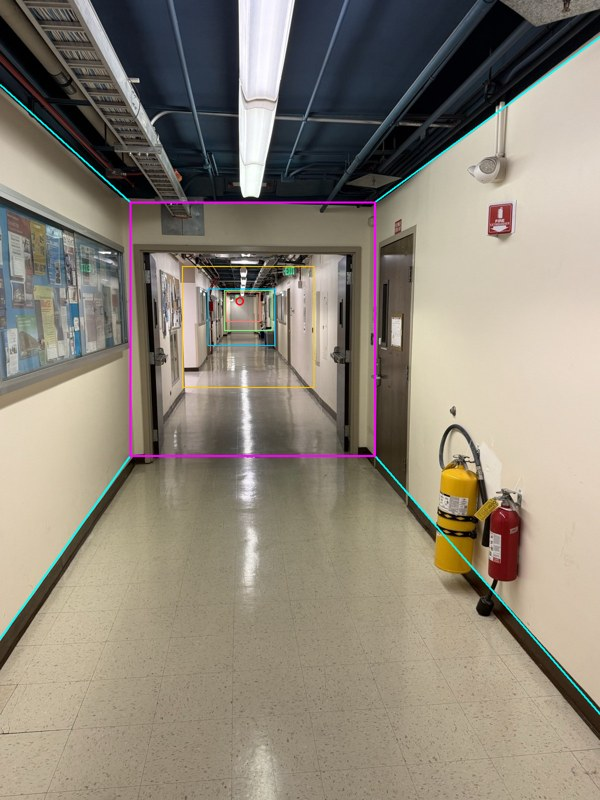
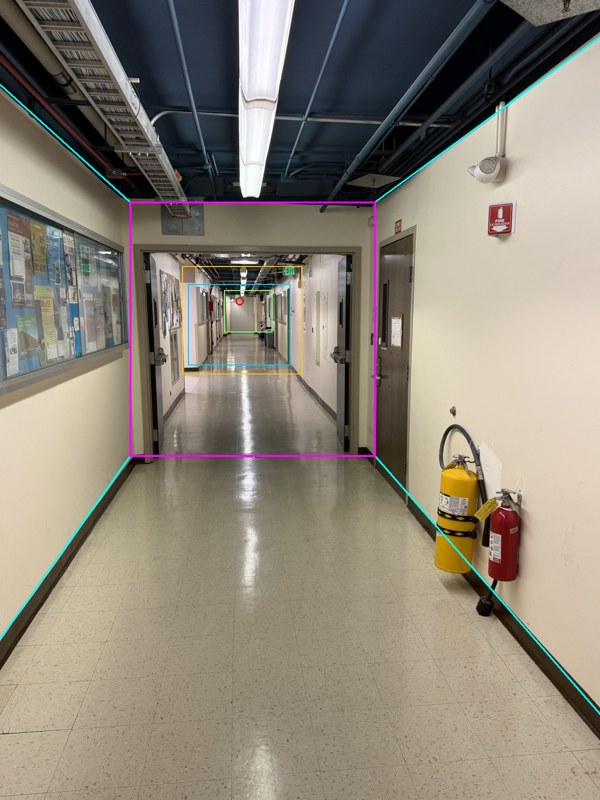
Deeper boxes by dynamic programming (no fixed depth step)
DP over candidate box-end rows: a box gains junction evidence summed along
the exact stretch its floor/ceiling/wall edges span (so splitting a uniform
corridor gains nothing) plus its end-rectangle edges, minus a per-box cost.
Boxes must end at a visible floor boundary with visible sides, be >=5%
deeper and visibly inset (no paper-thin duplicates), and keep a similar 3D
shape. Ray running sums make each candidate one lookup (~2 s total).

Replaces the greedy 1.5x-step search. New test with uneven spacing (1.1x
then 2.5x): DP within ~5px; the old version put the first box 45px off and
added two fake boxes. Hallway: 3 deeper boxes at the left-wall step and the
end wall. 15 annotation + 4 geometry tests pass.

Changed region(s): [[0.3, 0.3125, 0.54, 0.5]]

diff --git a/tip/auto_annotate.py b/tip/auto_annotate.py
@@ -14,13 +14,11 @@ Works for one-point-perspective interiors (camera looking down the room).
    how consistently the image changes across each of the four rays (from
    its corner outward), plus edge strength along the rectangle's own sides.
    Running sums make the exhaustive 4D search cheap.
-3. Deeper boxes (find_deeper_boxes). Walk down the room in depth steps of
-   about 1.5x. Each next box must contain the VP, sit inside the previous one
-   and keep a similar 3D size. Its rectangle is scored like the back wall,
-   except the junction edges are checked only over the exact stretch where
-   that box's floor/ceiling/wall edges would run, from its far corner out to
-   where it meets the previous box. It stops when the evidence gets weak or
-   the boxes get too small.
+3. Deeper boxes (find_deeper_boxes). Dynamic programming over where each
+   box ends, with no fixed spacing. A box gains the edge evidence along its
+   four floor/ceiling/wall junctions (over the exact stretch where they'd
+   run) plus the edges of its end rectangle, minus a fixed cost per box. So
+   the boxes split only where a real boundary is visible.
 
 The result is a starting point. scripts/annotate.py opens it for adjustment.
 """
@@ -296,125 +294,155 @@ def _box_shape(rect, vp):
     return (x2 - x1) / d, (y2 - y1) / d
 
 
-def segment_support(gx, gy, vp, cx, cy, ratio, n: int = 24, slack: int = 2, full_len: float = 25.0,
-                    pct: float = 65.0):
-    """Edge support along a room-edge segment that starts at corner (cx, cy)
-    and runs away from the VP until it is `ratio` times as far from the VP.
+def _ray_prefix(gx, gy, vp, xs, ys, slack: int = 2):
+    """Running sums of edge evidence along the outward ray from every corner
+    (x, y) on the grid xs x ys, in 1 px steps out to the image border.
 
-    A box ending at depth Z_k starts at the previous box's depth Z_{k-1}, so
-    its floor/wall and ceiling/wall junctions run from its far corner outward
-    by exactly ratio = Z_k / Z_{k-1}. Score = the `pct`-th percentile of edge
-    strength across the segment, scaled down for segments shorter than
-    `full_len` px (too short to be reliable). With pct = 65, the edge must
-    run along about 35% of the segment. Deeper boxes' junctions are often
-    partly hidden behind the previous box's back wall, so requiring the
-    whole length (the median or more) would be too strict. Arrays broadcast
-    together."""
+    Evidence at a sample is the edge strength across the ray (best within
+    +-slack px), divided by a high percentile and capped at 1, so a solid
+    room edge contributes about 1 per pixel of length. Returns
+    (prefix[ix, iy, k] = evidence over the first k px, d0 = corner distance
+    from the VP, room = px available before the border)."""
     h, w = gx.shape
-    cx, cy, ratio = np.broadcast_arrays(np.asarray(cx, np.float32), np.asarray(cy, np.float32),
-                                        np.asarray(ratio, np.float32))
-    shape = cx.shape
-    cx, cy, ratio = cx.ravel(), cy.ravel(), ratio.ravel()
-    ddx, ddy = cx - vp[0], cy - vp[1]
-    d0 = np.hypot(ddx, ddy) + 1e-6
-    ux, uy = ddx / d0, ddy / d0
-    d1 = np.minimum(d0 * ratio, _ray_length(vp, ux, uy, w, h))
-    seg = np.maximum(d1 - d0, 0)
-    t = d0[:, None] + np.linspace(0, 1, n)[None, :] * seg[:, None]
-    x, y = vp[0] + t * ux[:, None], vp[1] + t * uy[:, None]
-    nx, ny = -uy[:, None], ux[:, None]
+    cap = np.percentile(np.hypot(gx, gy), 97) + 1e-6
+    X, Y = np.meshgrid(np.asarray(xs, np.float32), np.asarray(ys, np.float32), indexing="ij")
+    dx, dy = X - vp[0], Y - vp[1]
+    d0 = np.hypot(dx, dy) + 1e-6
+    ux, uy = dx / d0, dy / d0
+    room = np.maximum(_ray_length(vp, ux, uy, w, h) - d0, 0)
+    t = np.arange(int(np.ceil(room.max())) + 1, dtype=np.float32)
+    x, y = X[..., None] + t * ux[..., None], Y[..., None] + t * uy[..., None]
+    nx, ny = -uy[..., None], ux[..., None]
     g = np.zeros_like(x)
     for o in range(-slack, slack + 1):
         xo, yo = x + o * nx, y + o * ny
         g = np.maximum(g, np.abs(_sample(gx, xo, yo) * nx + _sample(gy, xo, yo) * ny))
-    return (np.percentile(g, pct, axis=1) * np.sqrt(np.clip(seg / full_len, 0, 1))).reshape(shape)
+    g = np.minimum(g / cap, 1.0) * (t <= room[..., None])
+    prefix = np.concatenate([np.zeros(g.shape[:2] + (1,), np.float32), np.cumsum(g, axis=-1)], axis=-1)
+    return prefix, d0, room
 
 
-def find_inner_box(gx, gy, vp, prev, step: int = 2, min_px: int = 6, min_gap: int = 2,
-                   shape_range=(0.7, 1.1), y2_window=None):
-    """Best rectangle for the next box behind `prev` (all coords in the
-    detector's image). It must contain the VP, lie inside `prev`, have its
-    bottom edge closer to the VP than prev's (farther away), and keep a 3D
-    width, height and aspect ratio within `shape_range` of prev's (default:
-    at most 30% smaller, at most 10% bigger, since rooms seen through a
-    doorway are rarely bigger than the room in front). That rules out door
-    panels, posters and other rectangles that would mean a corridor suddenly
-    shrinking or ballooning. y2_window = (lo, hi) restricts the bottom edge.
+def find_deeper_boxes(gx, gy, vp, back_wall, step: int = 2, min_px: int = 6, ratio_range=(1.05, 12.0),
+                      shape_range=(0.7, 1.1), box_cost: float = 0.6, edge_norm: float = 50.0,
+                      bottom_min: float = 0.3, side_min: float = 0.2, min_inset: int = 3):
+    """Chain of further boxes behind the back wall, nearest first, by dynamic
+    programming over where the boxes end. No fixed spacing between boxes.
 
-    score = support of the four junction segments the box would have (see
-            segment_support) + edges along the rectangle (as for the back wall)."""
+    A box ending at depth Z_k starts at the previous box's depth Z_{k-1}, so
+    each of its four floor/ceiling/wall junctions runs from its far corner
+    outward to Z_k / Z_{k-1} times as far from the VP. A box's gain is
+
+        junction evidence summed along those four segments / edge_norm
+      + edge evidence along its end rectangle (as for the back wall)
+      - box_cost.
+
+    Junction evidence is a sum over length, so splitting a uniform corridor
+    gains nothing. A split pays off only where a real boundary (door frame,
+    step, end wall) adds edge evidence above box_cost.
+
+    DP over candidate bottom rows y (near to far): best[y] = the best total
+    gain of a chain whose last box ends at row y. It comes from any nearer
+    box end whose depth ratio is within ratio_range, and that box's
+    cross-section is fitted given the previous box's. Each box must contain
+    the VP, lie inside the previous box, and keep a 3D width, height and
+    aspect within shape_range of it (at most 30% smaller or 10% bigger:
+    rooms seen through a doorway are rarely bigger than the room in front).
+    That rules out door panels and posters. A box must also end at a visible
+    floor boundary (mean edge strength >= bottom_min along its bottom edge)
+    and visible sides (>= side_min),
+    be at least 5% deeper than the previous box, and be inset at least
+    min_inset px from it on every side. That drops paper-thin boxes, which
+    can't be told apart from the edge of an opening.
+    The answer is the best chain overall, which may be empty.
+    """
     vx, vy = vp
-    px1, py1, px2, py2 = prev
-    X1 = np.arange(np.ceil(px1) + 1, int(vx) - min_px + 1, step).astype(int)
-    X2 = np.arange(int(vx) + min_px, np.floor(px2), step).astype(int)
-    Y1 = np.arange(np.ceil(py1) + 1, int(vy) - min_px + 1, step).astype(int)
-    Y2 = np.arange(int(vy) + min_px, np.floor(py2) - min_gap + 1, step).astype(int)
-    if y2_window is not None:
-        Y2 = Y2[(Y2 >= y2_window[0]) & (Y2 <= y2_window[1])]
-    if min(len(X1), len(X2), len(Y1), len(Y2)) == 0:
-        return None, -np.inf
-    ratio = (py2 - vy) / (Y2 - vy)  # Z_k / Z_{k-1}, depends on y2 only
+    bx1, by1, bx2, by2 = back_wall
+    xs = np.arange(int(np.ceil(bx1)) + 1, int(bx2), step)
+    ys = np.arange(int(np.ceil(by1)) + 1, int(by2), step)
+    if len(xs) < 2 or len(ys) < 2:
+        return [], []
+    prefix, d0, room = _ray_prefix(gx, gy, vp, xs, ys)
+    ix_of = {int(v): i for i, v in enumerate(xs)}
+    iy_of = {int(v): i for i, v in enumerate(ys)}
+    agy = _band_max(np.abs(gy), axis=0)
+    agx = _band_max(np.abs(gx), axis=1)
+    cap = np.percentile(np.hypot(gx, gy), 97) + 1e-6
+    Ch = np.concatenate([np.zeros((gy.shape[0], 1)), np.cumsum(agy, axis=1)], axis=1) / cap
+    Cv = np.concatenate([np.zeros((1, gx.shape[1])), np.cumsum(agx, axis=0)], axis=0) / cap
 
-    # Junction segments. Bottom corners: (x, y2). Top corners: (x, y1, y2), since
-    # their length depends on the box's depth, which comes from y2.
-    R_bl = segment_support(gx, gy, vp, X1[:, None], Y2[None, :], ratio[None, :])  # (x1, y2)
-    R_br = segment_support(gx, gy, vp, X2[:, None], Y2[None, :], ratio[None, :])  # (x2, y2)
-    R_tl = segment_support(gx, gy, vp, X1[:, None, None], Y1[None, :, None], ratio[None, None, :])  # (x1, y1, y2)
-    R_tr = segment_support(gx, gy, vp, X2[:, None, None], Y1[None, :, None], ratio[None, None, :])  # (x2, y1, y2)
-    E_b, E_t, V_l, V_r = _edge_terms(gx, gy, X1, X2, Y1, Y2)
+    def seg(ix, iy, ratio):
+        """Junction evidence from corner (xs[ix], ys[iy]) out to `ratio` x its VP distance."""
+        k = np.clip(np.round((ratio - 1) * d0[ix, iy]), 0, room[ix, iy]).astype(int)
+        return prefix[ix, iy, k]
 
-    S = (
-        R_bl[:, None, None, :] + R_br[None, :, None, :] + R_tl[:, None, :, :] + R_tr[None, :, :, :]
-        + E_b[:, :, None, :] + E_t[:, :, :, None]
-        + 0.5 * (V_l[:, None, :, :] + V_r[None, :, :, :])
-    )
-    pw, ph = _box_shape(prev, vp)
-    lo, hi = shape_range
-    x1, x2 = X1[:, None, None, None], X2[None, :, None, None]
-    y1, y2 = Y1[None, None, :, None], Y2[None, None, None, :]
-    d = y2 - vy
-    w3, h3 = (x2 - x1) / d, (y2 - y1) / d
-    ok = (w3 > lo * pw) & (w3 < hi * pw) & (h3 > lo * ph) & (h3 < hi * ph)
-    # Similar proportions too: corridors don't go from wide to tall.
-    asp, pasp = h3 / w3, ph / pw
-    ok &= (asp > 0.75 * pasp) & (asp < 1.33 * pasp)
-    S = np.where(ok, S, -np.inf)
-    k = int(np.argmax(S))
-    if not np.isfinite(S.ravel()[k]):
-        return None, -np.inf
-    i1, i2, j1, j2 = np.unravel_index(k, S.shape)
-    return [float(X1[i1]), float(Y1[j1]), float(X2[i2]), float(Y2[j2])], float(S.ravel()[k])
+    def best_box(prev, y2):
+        """Best (gain, rect) for a box ending at row y2 behind box `prev`."""
+        ratio = (prev[3] - vy) / (y2 - vy)
+        if not ratio_range[0] <= ratio <= ratio_range[1] or prev[3] - y2 < min_inset:
+            return -np.inf, None
+        # Seen through the previous box's opening, the next box must be
+        # visibly smaller on every side (by more than an edge's blur width),
+        # so near-duplicate boxes can't re-claim the same edges.
+        X1 = np.array([x for x in xs if prev[0] + min_inset <= x <= vx - min_px])
+        X2 = np.array([x for x in xs if vx + min_px <= x <= prev[2] - min_inset])
+        Y1 = np.array([y for y in ys if prev[1] + min_inset <= y <= vy - min_px])
+        if min(len(X1), len(X2), len(Y1)) == 0:
+            return -np.inf, None
+        i1 = np.array([ix_of[int(x)] for x in X1])
+        i2 = np.array([ix_of[int(x)] for x in X2])
+        j1 = np.array([iy_of[int(y)] for y in Y1])
+        j2 = iy_of[int(y2)]
+        x1, x2, y1 = X1[:, None, None], X2[None, :, None], Y1[None, None, :]
+        junction = (seg(i1, j2, ratio)[:, None, None] + seg(i2, j2, ratio)[None, :, None]
+                    + seg(i1[:, None], j1[None, :], ratio)[:, None, :]
+                    + seg(i2[:, None], j1[None, :], ratio)[None, :, :])
+        bottom = (Ch[y2, x2] - Ch[y2, x1]) / (x2 - x1)
+        sides = 0.5 * ((Cv[y2, x1] - Cv[y1, x1]) + (Cv[y2, x2] - Cv[y1, x2])) / (y2 - y1)
+        edges = bottom + (Ch[y1, x2] - Ch[y1, x1]) / (x2 - x1) + sides
+        gain = junction / edge_norm + edges - box_cost
+        # A box end must show up as a rectangle: a visible floor boundary
+        # (threshold, step, baseboard or end wall) and visible side edges
+        # (frame or wall corners). The bottom is the only edge tied to depth,
+        # since it's a floor row. Without it, a box's sides and top could
+        # borrow deeper frames' edges at any depth. Without sides, a tile
+        # grout line on the floor looks like a box end.
+        gain = np.where((bottom >= bottom_min) & (sides >= side_min), gain, -np.inf)
+        # Shape relative to the previous box (3D size ~ pixels / depth-row offset).
+        pw, ph = _box_shape(prev, vp)
+        d = y2 - vy
+        w3, h3 = (x2 - x1) / d, (y2 - y1) / d
+        lo, hi = shape_range
+        ok = (w3 > lo * pw) & (w3 < hi * pw) & (h3 > lo * ph) & (h3 < hi * ph)
+        ok &= (h3 / w3 > 0.75 * ph / pw) & (h3 / w3 < 1.33 * ph / pw)
+        gain = np.where(ok, gain, -np.inf)
+        k = int(np.argmax(gain))
+        if not np.isfinite(gain.ravel()[k]):
+            return -np.inf, None
+        a, b, c = np.unravel_index(k, gain.shape)
+        return float(gain.ravel()[k]), [float(X1[a]), float(Y1[c]), float(X2[b]), float(y2)]
 
+    # States: (total gain, rect, index of previous state). State 0 is the back wall.
+    states = [(0.0, list(back_wall), -1)]
+    for y2 in sorted((int(y) for y in ys if vy + min_px <= y < by2), reverse=True):
+        best = (-np.inf, None, -1)
+        for i, (total, rect, _) in enumerate(states):
+            if rect[3] <= y2:
+                continue
+            g, r = best_box(rect, y2)
+            if r is not None and total + g > best[0]:
+                best = (total + g, r, i)
+        if best[1] is not None:
+            states.append(best)
 
-def find_deeper_boxes(gx, gy, vp, back_wall, max_boxes: int = 8, depth_step: float = 1.5,
-                      stop_frac: float = 0.3, min_px: int = 6):
-    """Chain of further boxes behind the back wall, nearest first.
-
-    Walks down the room in geometric depth steps: each box ends about
-    `depth_step` times deeper than the previous one. In image terms, its
-    bottom edge is about 1/depth_step as far below the VP. Within +-25% of that
-    depth the boundary snaps to the best-supported rectangle, whose
-    cross-section is fitted to the local floor/ceiling/wall junctions (see
-    find_inner_box). It stops when boxes get too small to fit around the VP,
-    when the evidence gets weak (score < stop_frac x the back wall's), or
-    after max_boxes boxes."""
-    vx, vy = vp
-    ref = _rect_score(gx, gy, vp, back_wall, bound=None)
-    boxes, scores = [], []
-    prev = back_wall
-    for _ in range(max_boxes):
-        d_prev = prev[3] - vy
-        target = d_prev / depth_step
-        if target < min_px or min(prev[2] - prev[0], prev[3] - prev[1]) < 3 * min_px:
-            break
-        window = (vy + 0.75 * target, vy + 1.25 * target)
-        rect, score = find_inner_box(gx, gy, vp, prev, min_px=min_px, y2_window=window)
-        if rect is None or score < stop_frac * ref:
-            break
-        boxes.append(rect)
-        scores.append(score)
-        prev = rect
-    return boxes, scores
+    # Best chain overall (state 0 = no deeper boxes), traced back.
+    i = int(np.argmax([s[0] for s in states]))
+    chain = []
+    while i > 0:
+        chain.append(states[i])
+        i = states[i][2]
+    chain.reverse()
+    gains = [c[0] - (states[c[2]][0]) for c in chain]
+    return [c[1] for c in chain], gains
 
 
 def _rect_score(gx, gy, vp, rect, bound=None):
@@ -482,8 +510,7 @@ class AutoResult:
     segment_scores: list = None
 
 
-def auto_annotate_array(image: np.ndarray, max_side: int = 640, seed: int = 0, deeper: bool = True,
-                        max_boxes: int = 8) -> AutoResult:
+def auto_annotate_array(image: np.ndarray, max_side: int = 640, seed: int = 0, deeper: bool = True) -> AutoResult:
     """Run the detector on an RGB/gray float image; returns full-res coords."""
     small, s = downscale(image, max_side)
     gray = to_gray(small)
@@ -504,7 +531,7 @@ def auto_annotate_array(image: np.ndarray, max_side: int = 640, seed: int = 0, d
     vp, bw, _ = best
     vp = refine_vp_from_corners(gx, gy, vp, bw)
     rays = rays_from_rect(vp, bw)
-    segs, seg_scores = (find_deeper_boxes(gx, gy, vp, bw, max_boxes=max_boxes) if deeper else ([], []))
+    segs, seg_scores = (find_deeper_boxes(gx, gy, vp, bw) if deeper else ([], []))
     inv = 1.0 / s
     # Map back to full-res pixel coordinates (pixel centers).
     to_full = lambda v: (v + 0.5) * inv - 0.5  # noqa: E731

diff --git a/tests/test_annotation_tools.py b/tests/test_annotation_tools.py
@@ -102,20 +102,30 @@ CORRIDOR = dict(
 )
 
 
-def test_deeper_boxes_on_synthetic_corridor():
+# Unevenly spaced: a thin door-frame-like box (1.1x deeper) and then a long
+# one (2.5x deeper). A fixed depth step can't find both.
+UNEVEN = dict(
+    vp=(300.0, 420.0),
+    back_wall=(190.0, 290.0, 410.0, 560.0),
+    segments=[(225.1, 331.5, 374.9, 547.0), (277.5, 393.3, 322.5, 471.0)],
+)
+
+
+def _deeper_boxes_match(case):
     """The deeper-box stage on its own: given the true VP and back wall, it
-    should find the two nested boxes. (Back-wall detection has its own tests.
+    should find the nested boxes. (Back-wall detection has its own tests.
     Here the doorway reaches the floor, so the outer wall's bottom edge is
     nearly invisible and full detection reasonably takes the inner frame as
     the back wall.)"""
-    img = synthetic_room(CORRIDOR["vp"], CORRIDOR["back_wall"], segments=CORRIDOR["segments"])
+    img = synthetic_room(case["vp"], case["back_wall"], segments=case["segments"])
     small, s = downscale(img, 640)  # same working resolution as the pipeline
     gx, gy = gradients(to_gray(small), sigma=1.0)
     to_small = lambda v: (np.asarray(v, float) + 0.5) * s - 0.5  # noqa: E731
     to_full = lambda v: (np.asarray(v, float) + 0.5) / s - 0.5  # noqa: E731
-    boxes, _ = find_deeper_boxes(gx, gy, tuple(to_small(CORRIDOR["vp"])), list(to_small(CORRIDOR["back_wall"])))
-    assert len(boxes) >= 2, f"found {len(boxes)} deeper boxes: {boxes}"
-    for found, truth in zip(boxes, CORRIDOR["segments"]):
+    boxes, _ = find_deeper_boxes(gx, gy, tuple(to_small(case["vp"])), list(to_small(case["back_wall"])))
+    found_full = [list(np.round(to_full(b), 1)) for b in boxes]
+    assert len(boxes) == len(case["segments"]), f"found {found_full}, expected {case['segments']}"
+    for found, truth in zip(boxes, case["segments"]):
         err = np.abs(to_full(found) - np.array(truth))
         # Sides and top are set by visible door-frame edges. The bottom, where
         # the box ends along a continuous floor, is the least constrained.
@@ -123,14 +133,27 @@ def test_deeper_boxes_on_synthetic_corridor():
         assert err[3] < 15.0, f"deeper box bottom {to_full(found)[3]:.1f} vs truth {truth[3]}"
 
 
+def test_deeper_boxes_on_synthetic_corridor():
+    _deeper_boxes_match(CORRIDOR)
+
+
+def test_deeper_boxes_unevenly_spaced():
+    _deeper_boxes_match(UNEVEN)
+
+
 def test_hallway_deeper_boxes():
     ann = load_annotation(ROOT / "data" / "annotations" / "hallway.json")
     image = load_image(ann.image)
     r = auto_annotate_array(image)
     assert len(r.segments) >= 3, f"only {len(r.segments)} deeper boxes"
-    # The first box behind the doorway matches the hand-drawn corridor box.
-    err = np.abs(np.array(r.segments[0]) - np.array(ann.segments[1])).max()
-    assert err < 25, f"first deeper box {r.segments[0]} vs hand {ann.segments[1]}"
+    # Boxes end at real boundaries: the first at the corridor's left-wall step
+    # (hand box ending at y=740), the last at the end wall (hand y=666). The
+    # hand annotation's other splits (e.g. y=790) were judgment calls with no
+    # strong edge, so they aren't required.
+    hand_bottoms = np.array([r_[3] for r_ in ann.segments])
+    first, last = r.segments[0], r.segments[-1]
+    assert np.abs(hand_bottoms - first[3]).min() < 15, f"first box {first} ends away from any hand boundary"
+    assert abs(last[3] - ann.segments[-1][3]) < 15, f"last box {last} vs hand end wall {ann.segments[-1]}"
     # The whole chain builds a valid scene, getting deeper box by box.
     auto = Annotation(image=ann.image, vanishing_point=r.vanishing_point, back_wall=tuple(r.back_wall),
                       segments=r.segments)

diff --git a/README.md b/README.md
@@ -6,7 +6,7 @@ The starting point is **Tour Into the Picture** (TIP; Horry, Anjyo & Arai, SIGGR
 
 **Status:** TIP baseline working on the hallway scene: a chain of 7 boxes runs from the camera through the doorway to the corridor's end wall. Holes are shown, and a simple push-pull fill is available. Automatic annotation detects the vanishing point, the back wall and the deeper boxes down the corridor, and an interactive editor lets you adjust the result. Diffusion completion is not started.
 
-| Hand annotation (7 boxes) | Automatic annotation (5 boxes) | Novel views (top: holes in magenta, bottom: push-pull fill) |
+| Hand annotation (7 boxes) | Automatic annotation (4 boxes) | Novel views (top: holes in magenta, bottom: push-pull fill) |
 |---|---|---|
 | <img src="outputs/hallway/annotation.jpg" width="200"> | <img src="outputs/hallway/auto_annotation.jpg" width="200"> | <img src="outputs/hallway/contact_sheet.jpg" width="560"> |
 
@@ -64,9 +64,20 @@ python scripts/build_scene.py data/annotations/my_room.json
 1. **Vanishing point:** edge pixels vote. Each strong edge pixel defines a line along its edge direction, and the VP is the point most of those lines pass through (coarse grid, then refined). Near horizontal and vertical edges are ignored, since they don't converge in one-point perspective.
 2. **Back wall:** an exhaustive search over rectangles around the VP. A rectangle's four corners fix the four room-edge rays (floor/wall and ceiling/wall junctions). Each rectangle is scored by how consistently the image changes across those rays, from each corner out to the border, plus edge strength along its own sides. Running sums keep the 4D search fast.
 3. **VP refinement:** the VP is searched jointly with the rectangle. Then the four room-edge lines are fitted through the corners, and the VP becomes their least-squares intersection.
-4. **Deeper boxes:** walk down the room in depth steps of about 1.5×. Each next box must contain the VP, sit inside the previous one, and keep a similar 3D size: at most 30% smaller or 10% bigger, with similar proportions. That rules out door panels and posters. It's scored like the back wall, except each floor/ceiling/wall edge is checked only over the exact stretch where that box's edges would run: from its far corner out to where it meets the previous box (a factor of Z_k/Z_{k-1} farther from the VP). Detection stops when the evidence gets weak or the boxes get too small.
+4. **Deeper boxes, by dynamic programming over where each box ends** (no fixed spacing). A box ending at depth Z_k starts at the previous box's depth Z_{k-1}, so its four floor/ceiling/wall edges run from its far corner out to Z_k/Z_{k-1} times as far from the VP. Its gain is:
+   - the edge evidence summed along those four segments,
+   - plus the edges of its end rectangle,
+   - minus a fixed cost per box.
 
-On synthetic rooms with known geometry, the VP is within about 5 px and the back wall within 4 px. On a synthetic two-step corridor, the deeper boxes are within 8 px (their bottom edges, where a box ends along a continuous floor, within 15 px). On the hallway, the back wall is within 12 px of the hand annotation. Detection finds 4 boxes down the corridor, and the first, behind the doorway, is within 15 px of the hand-drawn one. The VP comes out at y ≈ 602 vs. 628 by hand: in this photo the ceiling lines meet near y ≈ 610 and the floor lines near y ≈ 660 (lens distortion), so neither value is exact. Foreground objects are still outlined by hand in the editor.
+   Evidence is summed over length, so splitting a uniform corridor gains nothing. Boxes split only where a real boundary (door frame, step, end wall) shows up. Each box must:
+   - contain the VP and sit inside the previous box;
+   - keep a similar 3D size (at most 30% smaller or 10% bigger, similar proportions), which rules out door panels and posters;
+   - end at a visible floor boundary with visible side edges, so a tile grout line isn't mistaken for a box end;
+   - be at least 5% deeper and visibly inset on every side. Paper-thin boxes can't be told apart from the edge of an opening.
+
+   Running sums along every corner's ray make each candidate box one lookup, so the whole search takes about 2 s.
+
+On synthetic rooms with known geometry, the VP is within about 5 px and the back wall within 4 px. On two synthetic corridors, one with even 1.5× steps and one with uneven 1.1× and 2.5× steps, the deeper boxes are within about 5 px. The earlier fixed-1.5×-step version misplaced the uneven case's first box by 45 px and added two fake boxes. On the hallway, the back wall is within 12 px of the hand annotation. Detection finds 3 boxes down the corridor: at the left-wall step (y = 748 vs. 740 by hand), just past it, and at the end wall (664 vs. 666). It doesn't split where I did by hand at y = 790, since there's no strong edge there. The VP comes out at y ≈ 602 vs. 628 by hand: in this photo the ceiling lines meet near y ≈ 610 and the floor lines near y ≈ 660 (lens distortion), so neither value is exact. Foreground objects are still outlined by hand in the editor.
 
 You can also write the annotation JSON by hand (see [`data/annotations/hallway.json`](data/annotations/hallway.json)):
 
